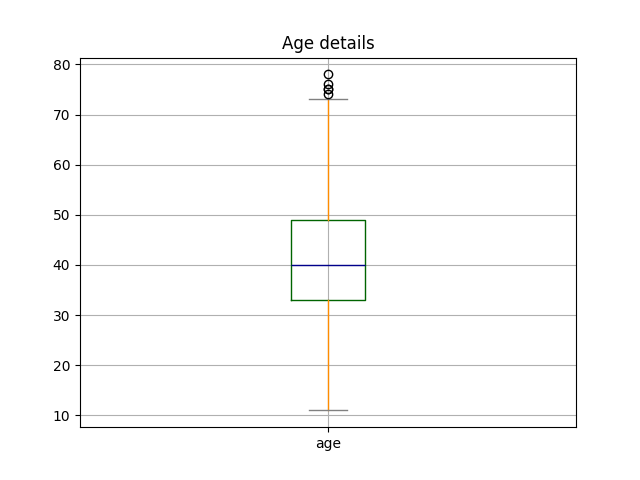
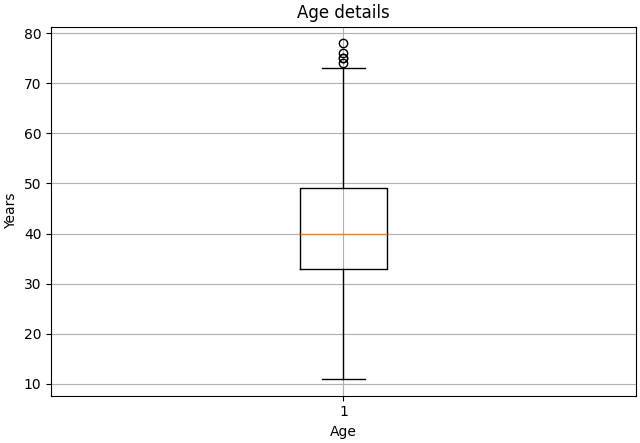
Updated plots

diff --git a/docs/EmpireStateRunUp/empirestaterunup/apps.py b/docs/EmpireStateRunUp/empirestaterunup/apps.py
@@ -14,6 +14,7 @@ from textual.containers import Vertical
 from textual.driver import Driver
 from textual.screen import ModalScreen
 from textual.widgets import DataTable, Footer, Header, Label, Button, MarkdownViewer
+import matplotlib.pyplot as plt
 
 from empirestaterunup.analyze import SUMMARY_METRICS, get_5_number, count_by_age, count_by_gender, count_by_wave, \
     dt_to_sorted_dict, get_outliers, age_bins, time_bins, get_country_counts, better_than_median_waves
@@ -251,35 +252,44 @@ class Plotter:
 
     def plot_age(self, gtype: str):
         if gtype == 'box':
-            self.df[RaceFields.age.value].plot.box(
-                title="Age details",
-                grid=True,
-                color={
-                    "boxes": "DarkGreen",
-                    "whiskers": "DarkOrange",
-                    "medians": "DarkBlue",
-                    "caps": "Gray",
-                }
-            )
+            series = self.df[RaceFields.age.value]
+            fig, ax = plt.subplots(layout='constrained')
+            ax.boxplot(series)
+            ax.set_title("Age details")
+            ax.set_ylabel('Years')
+            ax.set_xlabel('Age')
+            ax.grid(True)
         elif gtype == 'hist':
-            self.df[RaceFields.age.value].plot.hist(
-                title="Age details",
-                grid=True,
-                color='k'
-            )
+            series = self.df[RaceFields.age.value]
+            fig, ax = plt.subplots(layout='constrained')
+            n, bins, patches = ax.hist(series, density=False, facecolor='C0', alpha=0.75)
+            ax.set_xlabel('Age [years]')
+            ax.set_ylabel('Count')
+            ax.set_title(f'Age details for {series.shape[0]} racers\nBins={len(bins)}')
+            ax.grid(True)
 
     def plot_country(self):
-        self.df[RaceFields.country.value].value_counts().plot.barh(
-            title="Participants per country",
-            stacked=True
+        series = self.df[RaceFields.country.value].value_counts()
+        series.sort_values(inplace=True)
+        fig, ax = plt.subplots(layout='constrained')
+        rects = ax.barh(series.keys(), series.values)
+        ax.bar_label(
+            rects,
+            [value for value in series.values],
+            padding=5,
+            color='black',
+            fontweight='bold'
         )
+        ax.set_title = "Participants per country"
+        ax.set_stacked = True
+        ax.set_ylabel('Country')
+        ax.set_xlabel('Count per country')
 
     def plot_gender(self):
-        self.df[RaceFields.gender.value].value_counts().plot.pie(
-            title="Gender participation",
-            subplots=True,
-            autopct="%.2f"
-        )
+        series = self.df[RaceFields.gender.value].value_counts()
+        fig, ax = plt.subplots(layout='constrained')
+        ax.pie(series.values, labels=series.keys(), autopct="%.2f")
+        ax.set_title = "Gender participation"
 
 
 class BrowserApp(App):
